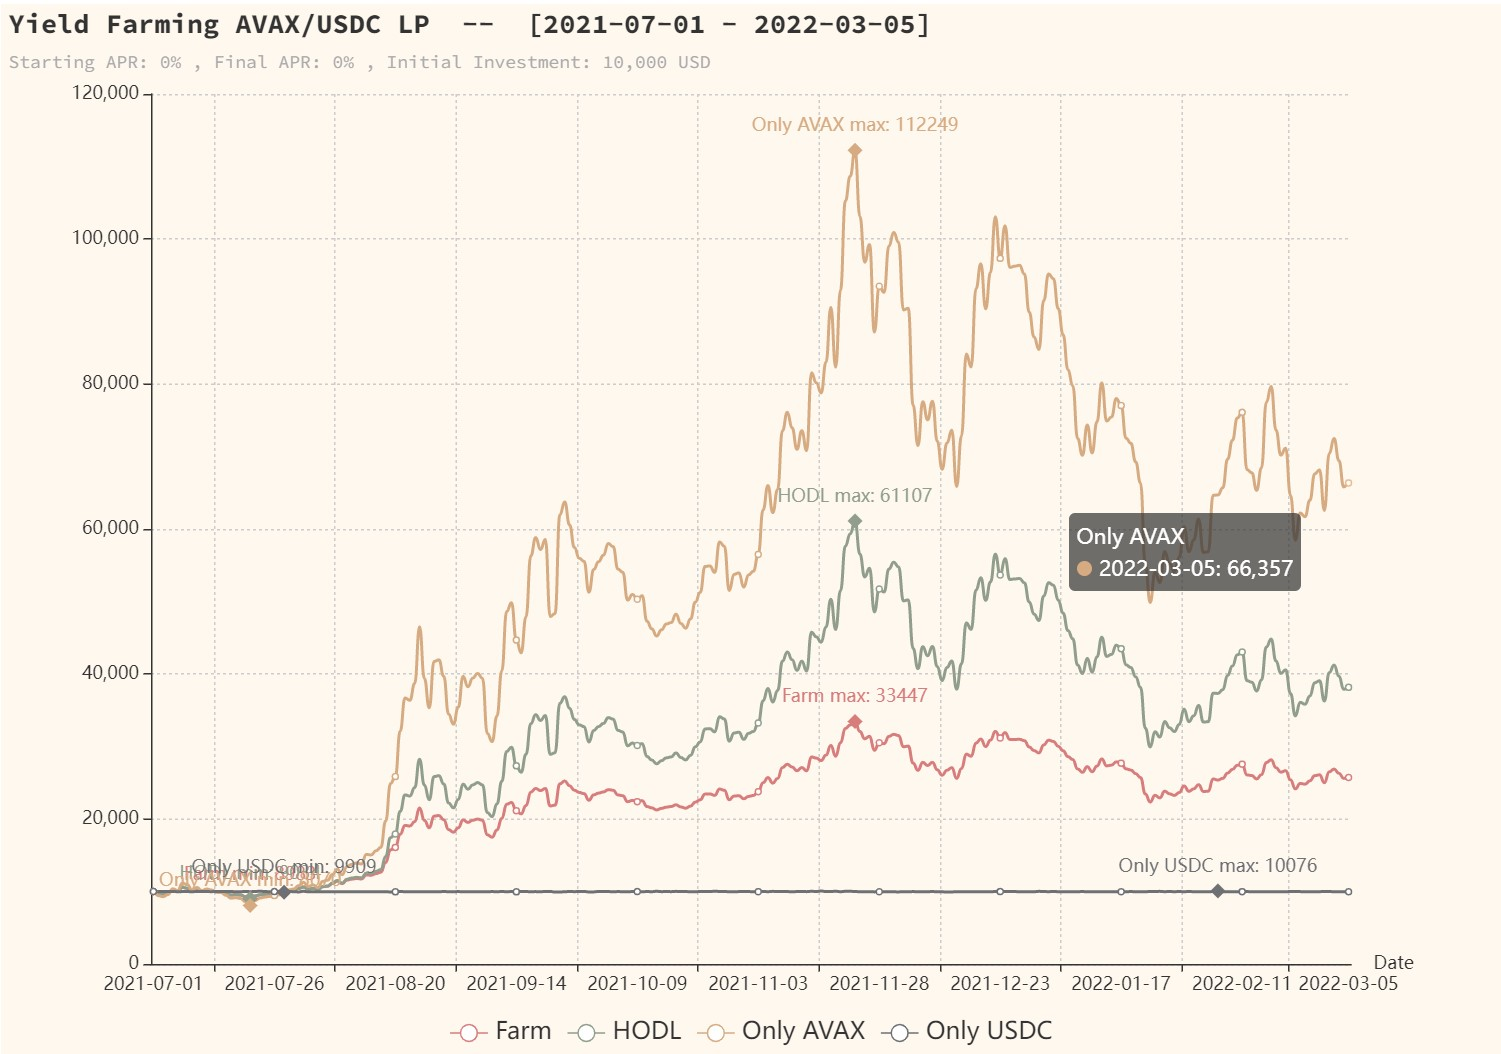
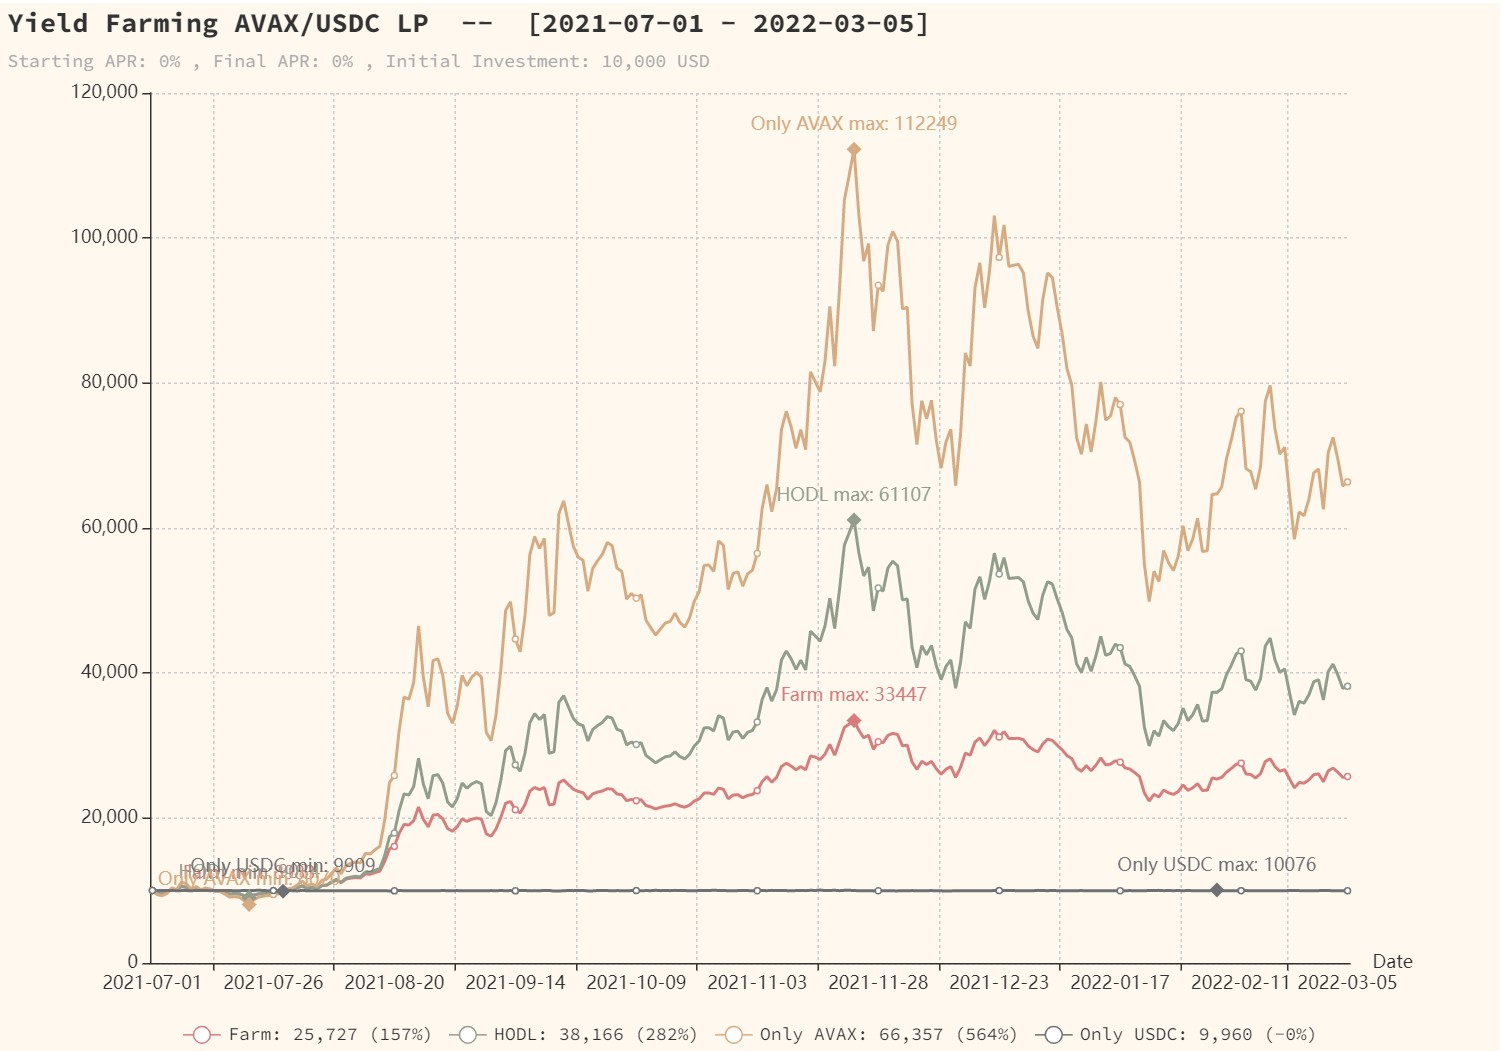
fix: Chart visuals.

diff --git a/pkg/trade/chart.go b/pkg/trade/chart.go
@@ -46,6 +46,8 @@ func RenderYieldFarmingPerformanceChart(path string, farm *LPFarm) error {
 		farm.ChangeHistory[len(farm.ChangeHistory)-1],
 	))
 
+	fontFamily := "Source Code Pro"
+
 	line := charts.NewLine()
 	line.SetGlobalOptions(
 		charts.WithInitializationOpts(opts.Initialization{
@@ -57,17 +59,18 @@ func RenderYieldFarmingPerformanceChart(path string, farm *LPFarm) error {
 			Title:    title,
 			Subtitle: subtitle,
 			TitleStyle: &opts.TextStyle{
-				FontFamily: "Source Code Pro",
+				FontFamily: fontFamily,
 			},
 			SubtitleStyle: &opts.TextStyle{
-				FontFamily: "Source Code Pro",
+				FontFamily: fontFamily,
 			},
 		}),
 		charts.WithLegendOpts(opts.Legend{
 			Show:   true,
 			Bottom: "1px",
 			TextStyle: &opts.TextStyle{
-				FontSize: 16,
+				FontSize:   12,
+				FontFamily: fontFamily,
 			},
 		}),
 		charts.WithYAxisOpts(opts.YAxis{
@@ -103,36 +106,57 @@ func RenderYieldFarmingPerformanceChart(path string, farm *LPFarm) error {
 		}),
 	)
 
-	line.SetXAxis(farm.ChangeHistory).
-		AddSeries("Farm", toLineData(farm.TotalValueHistory)).
-		AddSeries("HODL", toLineData(farm.TotalValueHODLHistory)).
-		AddSeries(pr.Sprintf("Only %s", strings.ToUpper(farm.A.Symbol)), toLineData(farm.TotalValueHODLOnlyAHistory)).
-		AddSeries(pr.Sprintf("Only %s", strings.ToUpper(farm.B.Symbol)), toLineData(farm.TotalValueHODLOnlyBHistory))
+	latest := len(farm.TotalValueHistory) - 1
+	farmV := farm.TotalValueHistory[latest]
+	farmPL := ((farmV / farm.InitialInvestment) - 1) * 100
+	hodlV := farm.TotalValueHODLHistory[latest]
+	hodlPL := ((hodlV / farm.InitialInvestment) - 1) * 100
+	onlyAV := farm.TotalValueHODLOnlyAHistory[latest]
+	onlyAPL := ((onlyAV / farm.InitialInvestment) - 1) * 100
+	onlyBV := farm.TotalValueHODLOnlyBHistory[latest]
+	onlyBPL := ((onlyBV / farm.InitialInvestment) - 1) * 100
 
-	line.SetSeriesOptions(
-		charts.WithLineChartOpts(
-			opts.LineChart{
-				Smooth: true,
-			}),
-		charts.WithMarkPointNameTypeItemOpts(
-			opts.MarkPointNameTypeItem{Name: "max", Type: "max"},
-			opts.MarkPointNameTypeItem{Name: "min", Type: "min"},
-		),
-		charts.WithMarkPointStyleOpts(
-			opts.MarkPointStyle{
+	series1 := "Farm"
+	series2 := "HODL"
+	series3 := pr.Sprintf("Only %s", strings.ToUpper(farm.A.Symbol))
+	series4 := pr.Sprintf("Only %s", strings.ToUpper(farm.B.Symbol))
+
+	line.SetXAxis(farm.ChangeHistory).
+		AddSeries(pr.Sprintf("%s: %.f (%.f%%)", series1, farmV, farmPL), toLineData(farm.TotalValueHistory)).
+		AddSeries(pr.Sprintf("%s: %.f (%.f%%)", series2, hodlV, hodlPL), toLineData(farm.TotalValueHODLHistory)).
+		AddSeries(pr.Sprintf("%s: %.f (%.f%%)", series3, onlyAV, onlyAPL), toLineData(farm.TotalValueHODLOnlyAHistory)).
+		AddSeries(pr.Sprintf("%s: %.f (%.f%%)", series4, onlyBV, onlyBPL), toLineData(farm.TotalValueHODLOnlyBHistory))
+
+	// line.SetSeriesOptions(
+	// 	charts.WithLineChartOpts(
+	// 		opts.LineChart{Smooth: true}),
+	// 	),
+	// )
+
+	markPointNames := []string{series1, series2, series3, series4}
+
+	for i := 0; i < len(line.MultiSeries); i++ {
+		name := markPointNames[i]
+
+		line.MultiSeries[i].MarkPoints = &opts.MarkPoints{
+			Data: []interface{}{
+				opts.MarkLineNameTypeItem{Name: name + " max", Type: "max"},
+				opts.MarkLineNameTypeItem{Name: name + " min", Type: "min"},
+			},
+			MarkPointStyle: opts.MarkPointStyle{
 				Label: &opts.Label{
 					Show:      true,
 					Position:  "top",
-					Formatter: "{a} {b}: {c}",
+					Formatter: "{b}: {c}",
 				},
 				SymbolSize: 10.0,
 				Symbol:     []string{"diamond"},
 			},
-		),
-	)
+		}
+	}
 
 	page := components.NewPage()
-	page.AddCharts(line)
+	page.AddCharts(line).SetLayout(components.PageFlexLayout)
 
 	file := filepath.Join(path, filename)
 	fmt.Printf("writing chart %s\n", file)
